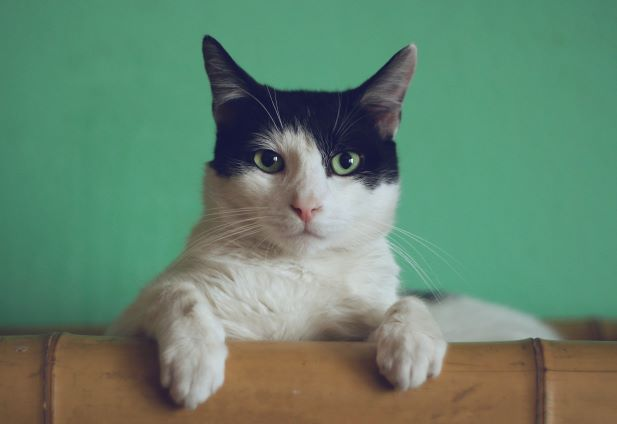
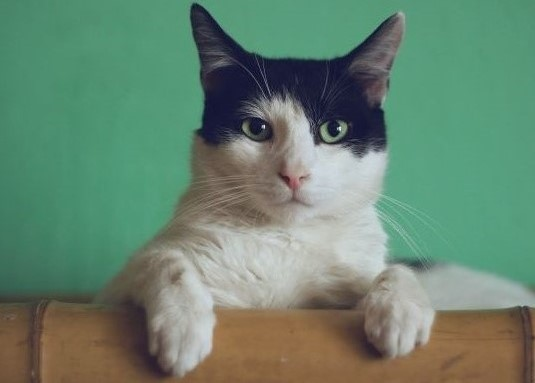
Alterações em tamanho de imagens e add de itens links no footer

Changed region(s): [[0.2393, 0.0, 1.0, 1.0], [0.0299, 0.8042, 0.0897, 1.0]]

diff --git a/Introdução ao HTML 5 E CSS3/HTML5/exercícios/criando-primeira-pagina.html b/Introdução ao HTML 5 E CSS3/HTML5/exercícios/criando-primeira-pagina.html
@@ -23,10 +23,25 @@
                     <p>- O padrão do nariz de um gato é único, tal como a impressão digital de um humano.</p>
                     <p>- Os gatos não têm glândulas sudoríferas no seu corpo como os humanos têm. Em vez disso, suam pelas patas.</p>
                     <p>- Um gato quase nunca mia para outro gato, apenas a humanos. Os gatos apenas cospem, ronronam e silvam a outros gatos.</p> 
-                    <p>- Alguns gatos já sobreviveram a quedas de 20 metros, devido ao reflexo de endireitamento. Os seus olhos, os órgãos e ouvido interno, dizem ao gato onde é que ele está no espaço, para que ele consiga aterrar em pé. Mesmo os gatos sem cauda possuem esta capacidade.</p>
+                    <p>- Alguns gatos já sobreviveram a quedas de 20 metros, devido ao reflexo de endireitamento. Os seus olhos,</p> 
+                    <p>os órgãos e ouvido interno, dizem ao gato onde é que ele está no espaço, para que ele consiga aterrar em pé. Mesmo os gatos</p>
+                    <p>sem cauda possuem esta capacidade.</p>
                     <p><a href="https://www.hospvetsantamarinha.com/blog/60-curiosidades-gatos/"target="_blank">Sobre a fonte.</a></p>
             </article>
         </section>
-        <footer></footer>
+        <footer>
+            <ul>
+                <li>
+                    <a href="mailto:thais.yamazaki@gmail.com" target="_blank">E-mail</a>
+                </li>
+                <li>
+                    <a href="https://www.linkedin.com/in/thaisyamazaki/" target="_blank"> LinkedIn</a>
+                </li>
+                <li>
+                    <a href="https://github.com/ThaisYamazaki" target="_blank"> Github </a>
+                </li>
+
+            </ul>
+        </footer>
     </body>
 </html>
